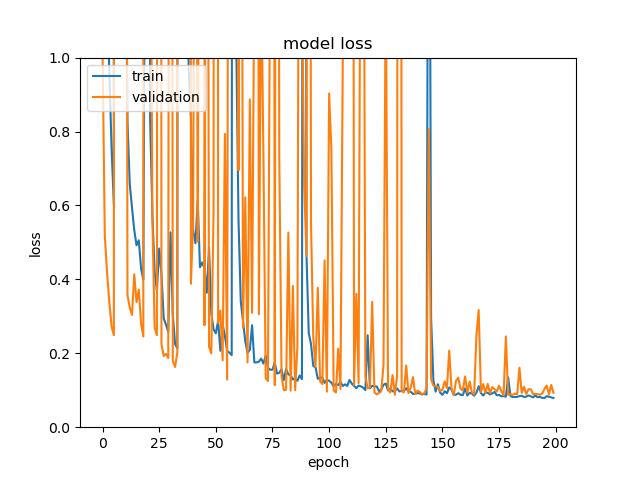
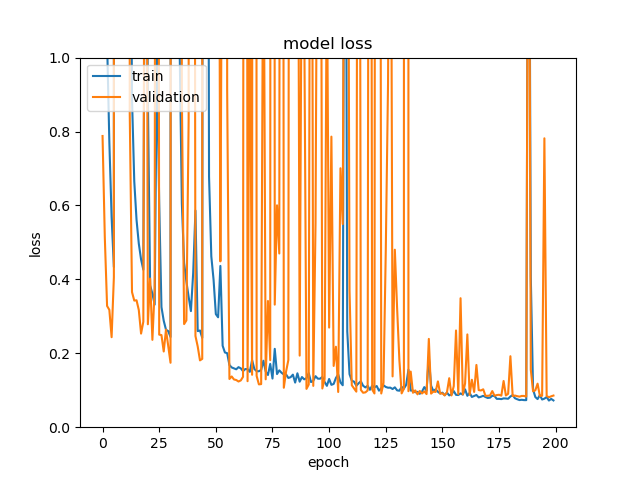
Added LowerLRonPlateau

Changed region(s): [[0.1562, 0.125, 0.875, 0.8438]]

diff --git a/convTilesetMaker.py b/convTilesetMaker.py
@@ -3,10 +3,10 @@ import talos
 import numpy as np
 import tensorflow
 import tensorflow.keras.backend as K
-from tensorflow.keras.layers import Input, Conv2D, MaxPooling2D, UpSampling2D, Conv2DTranspose, Dropout, BatchNormalization, Activation, LeakyReLU, concatenate
+from tensorflow.keras.layers import Input, Conv2D, Conv2DTranspose, Dropout, BatchNormalization, Activation, LeakyReLU, concatenate
 from tensorflow.keras.regularizers import l2
 from tensorflow.keras.models import Model
-from tensorflow.keras.callbacks import EarlyStopping
+from tensorflow.keras.callbacks import ReduceLROnPlateau#, EarlyStopping
 from tensorflow.keras.optimizers import Adam
 from PIL import Image, ImageOps
 from pathlib import Path
@@ -171,11 +171,14 @@ def my_model(x_train, y_train, x_val, y_val, params):
     model.compile(optimizer=opt, loss='mse')#, metrics=['accuracy'])
     # fits the model on batches with real-time data augmentation:
     #es = EarlyStopping(monitor='val_loss', min_delta=0, patience=15, verbose=0, mode='auto')
+    reduce_lr = ReduceLROnPlateau(monitor='val_loss', factor=0.5,
+                              patience=25)
+
     out = model.fit(x_train, y_train,
                     validation_data=(x_val, y_val),
                     batch_size = 8,
                     epochs=200,
-                    verbose = 1)#, callbacks=[es])
+                    verbose = 1, callbacks=[reduce_lr])
 
     model.save('tilesetmaker-' + "after" + str(params['lambda']) + '.h5')
 
@@ -205,12 +208,13 @@ talos.Scan(x_train, y_train, p, my_model, x_val=x_validation, y_val=y_validation
 #my_model(x_train, y_train, x_validation, y_validation, p)
 
 # Improvements: Test against L2 layer for if following techniques improve val-loss
-# decrease filter size to improve memory usage
-# decrease lambda further than 1e-06
-# ReduceLROnPlateau when val_loss plateaus to go from macro learning to fine-tuning what validation error plateaus
+# Moar data
 # Adam beta1 and beta2
 # have a new file of metrics that holds graphs for different filter_sizes and check which has most attuned loss/val-loss
 # adding another layer of conv2D and conv2DTranspose? if that doesn't work, removing?
 # Taking out lambda regularization from decoding? How about decoding?
+# decrease lambda further than 1e-06
+# decreasing filter size MORE
 # GAN?
-# Moar data
+# ReduceLROnPlateau when val_loss plateaus to go from macro learning to fine-tuning what validation error plateaus
+#               (Less patience, lower plateau rate, etc?)
